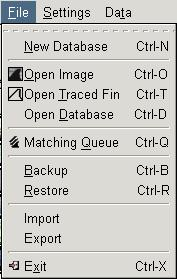
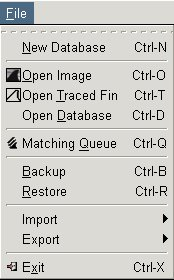
Update documentation

Changed region(s): [[0.0, 0.0, 1.0, 1.0], [0.7471, 0.9176, 0.9483, 0.9749]]

diff --git a/darwin/runtime-win32-new/docs/usersguide.htm b/darwin/runtime-win32-new/docs/usersguide.htm
@@ -318,7 +318,7 @@ outline will be displayed</em>.)
 <br><br>
 <!----fileMenu----------------------------------------------------------------------------------->
 <b>The File Menu: </b>
-<p><img style="width: 177px; height: 279px; float: left;" alt="" src="usersguide.htg/mainwin_fileMenu.jpg" border="0">
+<p><img style="float: left;" alt="" src="usersguide.htg/mainwin_fileMenu.jpg" border="0">
 The <b><a href="#mainwin_creating">"New Database"</a> </b>menu item opens 
 a dialog window to help users create a new database.</p>
 
@@ -358,8 +358,11 @@ subsequently review the results of each of match at leisure.
 of a database and all associated images. Compressed archive files (zip file) used by 
 Backup and Restore are located in the <b>backups</b> folder.  </p>
 
-<p>The <b>"Export/Import"</b> menu item provide similar functions as Backup/Restore but 
+<p>The <b>"Export/Import Catalog"</b> menu items, located underneath the Export and Import menus respectively, provide similar functions as Backup/Restore but 
 allows the user to specify the filename and location of the database file to export/import.
+</p>
+
+<p>The <strong>"Export/Import"</strong> submenus also allow the user to export and import one or more .finz files. Each .finz file represents one fin. These methods present an easy way to copy a fin from one database to another or to create a new database that is a subset of another database.
 </p>
 
 <p>The <b>"Exit"</b> menu item exits the program.
@@ -367,9 +370,7 @@ allows the user to specify the filename and location of the database file to exp
 
 <!----settingsMenu----------------------------------------------------------------------------------->
 <b>The Settings Menu: </b>
-<p><img style="width: 330px; height: 122px; float: left;" alt="" src="usersguide.htg/mainwin_settingsMenu.jpg" border="0">
-The <b> <a href="#database_dialog"> "New Database"</a> </b>menu item opens 
-a dialog window to help users create a new database.</p>
+<p><img style="width: 330px; height: 122px; float: left;" alt="" src="usersguide.htg/mainwin_settingsMenu.jpg" border="0"></p>
 
 <p>The <b>"Options"</b> menu item opens the <a href="#options">options dialog window</a> that enables 
 modifications of
@@ -813,7 +814,7 @@ the image (<em>clicking with the shift button depressed will decrease the
 magnification factor</em>)
 </p>
 
-<p><img src="usersguide.htg/img19.gif" align="left" height="23" width="23">
+<p><img src="usersguide.htg/tracewin_autotrace.jpg" align="left" height="23" width="23">
 </p>
 
 <p>AUTOTRACE - This tool is used by the user to designate the beginning of the 
